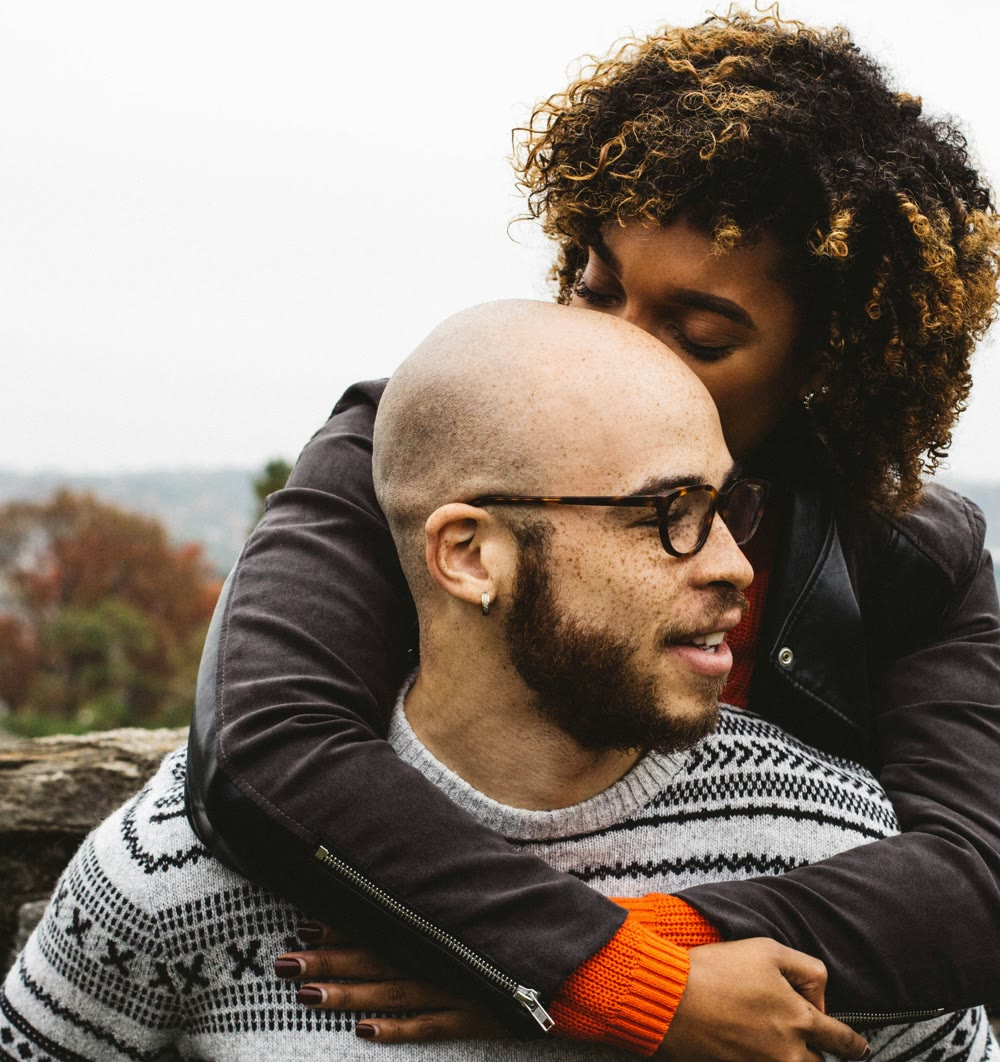
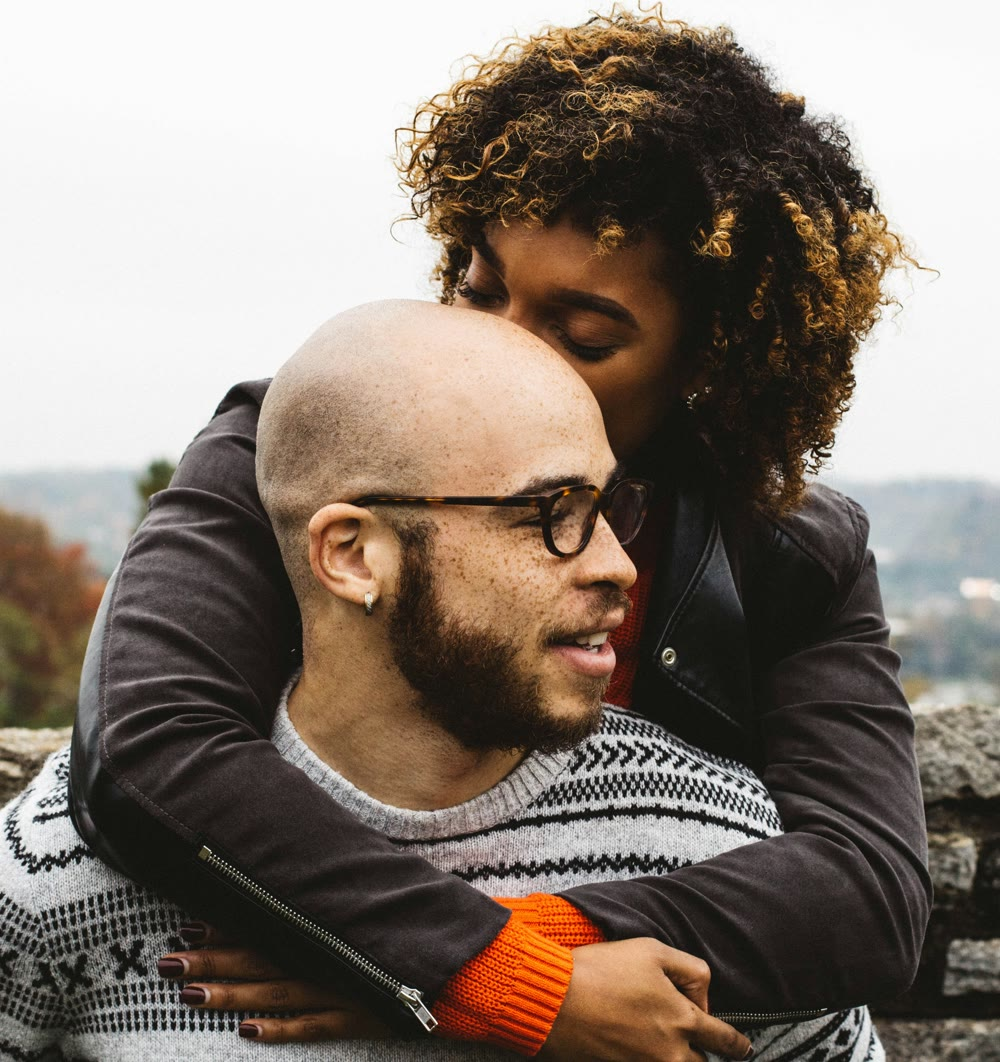
New headline, certification strip, shorter header name, centred photo

diff --git a/index.html b/index.html
@@ -46,14 +46,15 @@
   .nav ul { display: flex; align-items: center; gap: 30px; list-style: none; margin: 0; padding: 0; }
   .nav ul a:not(.btn) { text-decoration: none; color: var(--ink); font-size: 16px; }
   .nav ul a:not(.btn):hover { color: var(--brown); text-decoration: underline; text-underline-offset: 4px; }
-  .nav .btn { padding: 13px 30px; }
+  .nav .btn { padding: 13px 30px; white-space: nowrap; }
 
   /* Hero */
   .hero { position: relative; min-height: min(78vh, 680px); display: grid; place-items: center; text-align: center; color: #efe9e3; overflow: hidden; }
   .hero::before { content: ""; position: absolute; inset: 0; background: url("https://images.unsplash.com/photo-1544027993-37dbfe43562a?w=2000&q=75") center 40% / cover; }
   .hero::after { content: ""; position: absolute; inset: 0; background: rgba(78,52,30,.62); }
-  .hero .inner { position: relative; z-index: 1; max-width: 800px; padding: 80px 16px; }
-  .hero h1 { font-size: clamp(36px, 5.2vw, 60px); }
+  .hero .inner { position: relative; z-index: 1; max-width: 1060px; padding: 80px 16px; }
+  .hero h1 + p { max-width: 560px; }
+  .hero h1 { font-size: clamp(36px, 5.2vw, 60px); text-wrap: balance; }
   .hero p { max-width: 560px; margin: 28px auto 0; font-size: 17px; }
 
   /* Ready */
@@ -97,13 +98,20 @@
   .contact p { margin: 18px auto 34px; max-width: 560px; font-size: 16px; }
   .contact .small { margin-top: 26px; font-size: 15px; }
 
+  /* Certification */
+  .cert { background: var(--card); padding: 44px 0; text-align: center; }
+  .cert .label { margin: 0 0 6px; font-size: 13px; letter-spacing: .14em; text-transform: uppercase; }
+  .cert .name { margin: 0; font-family: var(--display); font-weight: 600; font-variation-settings: "SOFT" 100, "WONK" 1; font-size: clamp(22px, 2.4vw, 28px); line-height: 1.2; color: var(--brown); }
+  .cert .org { margin: 6px 0 0; font-size: 16px; }
+  .cert .org a { text-underline-offset: 3px; }
+
   footer { background: var(--brown); color: var(--cream); padding: 30px 0; font-size: 14px; }
   footer .wrap { display: flex; justify-content: space-between; gap: 16px; flex-wrap: wrap; }
 
   /* Phones and small tablets */
   @media (max-width: 860px) {
     .nav ul li:not(:last-child) { display: none; }
-    .logo { font-size: 18px; line-height: 1.2; gap: 8px; }
+    .logo { font-size: 22px; line-height: 1.2; gap: 8px; }
     .logo img { height: 26px; }
     .nav .btn { padding: 10px 18px; font-size: 15px; white-space: nowrap; }
     .ready, .about, .services, .contact { padding: 70px 0; }
@@ -120,7 +128,7 @@
 
 <header>
   <nav class="wrap nav" aria-label="Main">
-    <a class="logo" href="#top"><img src="images/logo.svg" alt="" width="391" height="231">Zoë Reeves Relationship Coaching</a>
+    <a class="logo" href="#top"><img src="images/logo.svg" alt="" width="391" height="231">Zoë Reeves</a>
     <ul>
       <li><a href="#services">Services</a></li>
       <li><a href="#about">About</a></li>
@@ -134,7 +142,7 @@
 <main id="top">
   <section class="hero">
     <div class="inner">
-      <h1>Relationships are one of the most important investments we make in our lives.</h1>
+      <h1>Every couple falls out of step.<br> Strong couples learn how to repair.</h1>
       <p>I specialize in helping couples and individuals navigate the beautiful, messy, and deeply human work of being in relationship — with love, curiosity and honesty.</p>
     </div>
   </section>
@@ -205,6 +213,14 @@
       <!-- BOOKING_LINK: swap mailto:... for your Cal.com link once it's set up -->
       <a class="btn" href="mailto:hello@zoereeves.ca?subject=Discovery%20call">Book a free discovery call</a>
       <p class="small">Prefer to write? Email <a href="mailto:hello@zoereeves.ca">hello@zoereeves.ca</a></p>
+    </div>
+  </section>
+
+  <section class="cert" aria-label="Certification">
+    <div class="wrap">
+      <p class="label">Certified</p>
+      <p class="name">Thriving Relationship Coach</p>
+      <p class="org">through the <a href="https://centerforthrivingrelationships.com/relationship-coach-certification/" target="_blank" rel="noopener">Center for Thriving Relationships</a></p>
     </div>
   </section>
 </main>
